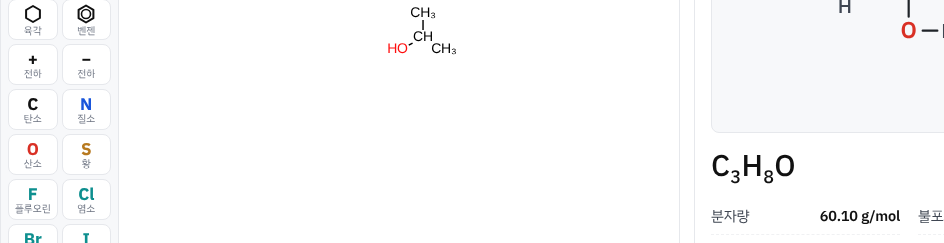
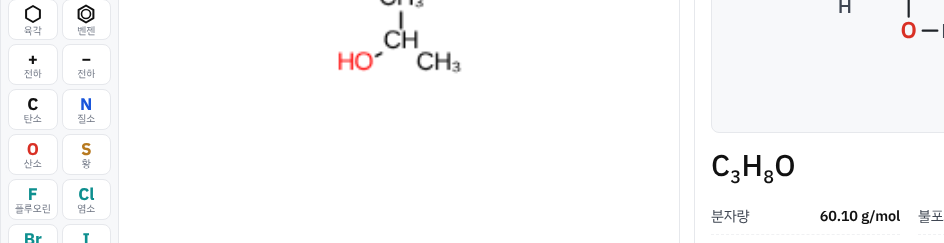
구조식 그리기: 편집기 그림을 1.8배 확대 (CSS zoom + 포인터 좌표 보정)
- 편집기는 결합 하나를 항상 24 px 로 그리고 바꾸는 기능이 없어, 편집기 영역을
  확대 래퍼(CSS zoom 1.8)에 넣고 편집기로 가는 포인터 이벤트 좌표를 1/1.8 로
  되돌린 합성 이벤트로 전달하도록 함 (드래그·클릭·도구 모두 동작 확인)
- 그리기 캔버스가 도구 모음 오른쪽 영역을 정확히 덮도록 래퍼 크기를 측정하며 보정,
  창 크기가 바뀌면 다시 보정
- 좌표 배율을 억지로 바꾸던 이전 방식 제거

Claude-Session: https://claude.ai/code/session_01YFfKQJw1u1SaPAgNkoRP8G

Changed region(s): [[0.3379, 0.0, 0.4915, 0.3169]]

diff --git a/labs/chemistry/organic-structure.html b/labs/chemistry/organic-structure.html
@@ -369,19 +369,10 @@
         /* =====================================================================
          *  화면 갱신
          * ===================================================================== */
-        const EDIT_AVBL = 60;                                 // 편집기 안 결합 길이(px). 라이브러리 기본값 24 는 너무 작아 매번 맞춰 줌
-        function keepScale(mol) {
-            if (!mol.getAllBonds()) return false;
-            const avbl = mol.getAverageBondLength(); if (!(avbl > 0) || Math.abs(avbl - EDIT_AVBL) < 1.5) return false;
-            const n = mol.getAllAtoms(), f = EDIT_AVBL / avbl; let cx = 0, cy = 0;
-            for (let a = 0; a < n; a++) { cx += mol.getAtomX(a); cy += mol.getAtomY(a); } cx /= n; cy /= n;
-            for (let a = 0; a < n; a++) { mol.setAtomX(a, cx + (mol.getAtomX(a) - cx) * f); mol.setAtomY(a, cy + (mol.getAtomY(a) - cy) * f); }
-            return true;
-        }
         function update() {
             if (relabelling || !ed) return;
             const mol = ed.getMolecule();
-            if (keepScale(mol)) { relabelling = true; ed.moleculeChanged(); relabelling = false; }
+
             if ($('showC').checked) {
                 mol.ensureHelperArrays(OCL.Molecule.cHelperNeighbours); let changed = false;
                 for (let a = 0; a < mol.getAllAtoms(); a++) if (mol.getAtomicNo(a) === 6) { const h = mol.getImplicitHydrogens(a); const lab = h ? 'CH' + (h > 1 ? SUB[h] : '') : 'C'; if (mol.getAtomCustomLabel(a) !== lab) { mol.setAtomCustomLabel(a, lab); changed = true; } }
@@ -477,13 +468,62 @@
             toolsEl.addEventListener('mouseleave', () => tip.style.display = 'none');
         }
         function hideNativeToolbar() {                      // 편집기 안의 작은 도구 모음 캔버스를 보이지 않게 (이벤트는 그대로 받음)
-            const root = [...host.children].find(c => c.shadowRoot); const tb = root && root.shadowRoot.querySelector('canvas');
+            const root = [...edWrap.children].find(c => c.shadowRoot); const tb = root && root.shadowRoot.querySelector('canvas');
             if (tb) tb.style.visibility = 'hidden';
         }
+        /* 편집기는 결합 하나를 항상 24 px 로 그리므로(확대 기능 없음) 편집기 영역을 CSS zoom 으로 ZOOM 배 키웁니다.
+         * 편집기가 포인터 좌표를 화면 픽셀 그대로 읽기 때문에, 편집기로 가는 포인터 이벤트는 좌표를 1/ZOOM 로 되돌린
+         * 합성 이벤트로 바꿔 전달합니다. (도구 모음 버튼이 보내는 합성 이벤트는 __raw 표시로 그대로 통과) */
+        const ZOOM = 1.8;
+        let edRoot = null, edWrap = null, dragging = false;
+        function makeWrap() {                                // 편집기를 담을 확대 래퍼 (호스트의 도구 모음 영역 오른쪽을 채움)
+            edWrap = document.createElement('div'); edWrap.className = 'oc-wrap';
+            const padL = parseFloat(getComputedStyle(host).paddingLeft), w = host.clientWidth - padL, h = host.clientHeight;
+            Object.assign(edWrap.style, { position: 'absolute', top: '0', left: padL + 'px', zoom: ZOOM, width: (w / ZOOM + 46) + 'px', height: (h / ZOOM) + 'px', marginLeft: '-46px' });
+            host.appendChild(edWrap); return edWrap;
+        }
+        function drawCanvas() { return edRoot && edRoot.shadowRoot.querySelectorAll('canvas')[1]; }
+        function calibrate() {                               // 그리기 캔버스가 호스트 안쪽(도구 모음 오른쪽)을 정확히 덮도록 래퍼 크기·위치를 측정하며 맞춤
+            edRoot = [...edWrap.children].find(c => c.shadowRoot); if (!edRoot) return;
+            const padL = parseFloat(getComputedStyle(host).paddingLeft);
+            let tries = 0;
+            const step = () => {
+                const dc = drawCanvas(); if (!dc) return;
+                const r = dc.getBoundingClientRect(), hb = host.getBoundingClientRect(), bw = host.clientLeft;
+                const dl = r.left - (hb.left + bw + padL), dw = (hb.right - bw) - r.right, dt = r.top - (hb.top + bw), dh = (hb.bottom - bw) - r.bottom;
+                if (window.__calLog) console.log('cal', tries, JSON.stringify({ dl, dw, dt, dh, w: edWrap.style.width, ml: edWrap.style.marginLeft, cw: dc.width }));
+                if (Math.abs(dl) < 1 && Math.abs(dw) < 1 && Math.abs(dt) < 1 && Math.abs(dh) < 1) return;
+                if (++tries > 6) return;
+                edWrap.style.marginLeft = (parseFloat(edWrap.style.marginLeft || 0) - dl / ZOOM) + 'px';   // 래퍼의 margin 도 zoom 배로 보이므로
+                edWrap.style.marginTop = (parseFloat(edWrap.style.marginTop || 0) - dt / ZOOM) + 'px';
+                edWrap.style.width = (parseFloat(edWrap.style.width) + (dw + dl) / ZOOM) + 'px';     // 왼쪽을 dl 만큼 옮겼으니 폭은 dw + dl 만큼
+                edWrap.style.height = (parseFloat(edWrap.style.height) + (dh + dt) / ZOOM) + 'px';
+                const ev = new Event('resize'); ev.__fromCal = true; window.dispatchEvent(ev);
+                setTimeout(step, 150);                       // 편집기가 크기를 반영한 뒤 다시 측정
+            };
+            setTimeout(step, 50);
+        }
+        const POINTER_TYPES = ['pointerdown', 'pointermove', 'pointerup', 'pointercancel', 'pointerover', 'pointerout', 'pointerenter', 'pointerleave'];
+        POINTER_TYPES.forEach(type => window.addEventListener(type, e => {
+            if (!edRoot || e.__raw || !e.isTrusted) return;
+            const path = e.composedPath(), inside = path.includes(edRoot);
+            if (type === 'pointerdown') dragging = inside;
+            if (!inside && !dragging) return;
+            if (type === 'pointerup' || type === 'pointercancel') dragging = false;
+            e.stopImmediatePropagation(); e.preventDefault();
+            const target = (inside && path[0] instanceof HTMLCanvasElement) ? path[0] : drawCanvas();
+            const r = target.getBoundingClientRect();                     // 편집기는 (clientX − 캔버스 rect.left) 를 그대로 캔버스 좌표로 씀
+            const init = { bubbles: true, cancelable: true, composed: true, clientX: r.left + (e.clientX - r.left) / ZOOM, clientY: r.top + (e.clientY - r.top) / ZOOM, screenX: e.screenX, screenY: e.screenY,
+                pointerId: e.pointerId, pointerType: e.pointerType, isPrimary: e.isPrimary, button: e.button, buttons: e.buttons, ctrlKey: e.ctrlKey, shiftKey: e.shiftKey, altKey: e.altKey, metaKey: e.metaKey, pressure: e.pressure, width: e.width, height: e.height };
+            const ev = new PointerEvent(type, init); ev.__raw = true;
+            target.dispatchEvent(ev);
+        }, true));
+        let calT = null;
+        window.addEventListener('resize', e => { if (!edWrap || e.__fromCal) return; clearTimeout(calT); calT = setTimeout(calibrate, 120); });
         function pickTool(row, col) {
-            const root = [...host.children].find(c => c.shadowRoot); const tb = root && root.shadowRoot.querySelector('canvas'); if (!tb) return;
+            const tb = edRoot && edRoot.shadowRoot.querySelector('canvas'); if (!tb) return;
             const r = tb.getBoundingClientRect(), x = r.left + 13 + col * 22, y = r.top + 13 + row * 21;
-            ['pointerdown', 'pointerup'].forEach(type => tb.dispatchEvent(new PointerEvent(type, { bubbles: true, cancelable: true, composed: true, clientX: x, clientY: y, pointerId: 1, pointerType: 'mouse', isPrimary: true, button: 0, buttons: type === 'pointerdown' ? 1 : 0 })));
+            ['pointerdown', 'pointerup'].forEach(type => { const ev = new PointerEvent(type, { bubbles: true, cancelable: true, composed: true, clientX: x, clientY: y, pointerId: 1, pointerType: 'mouse', isPrimary: true, button: 0, buttons: type === 'pointerdown' ? 1 : 0 }); ev.__raw = true; tb.dispatchEvent(ev); });
         }
 
         /* =====================================================================
@@ -553,9 +593,9 @@
         try {
             await OCL.Resources.registerFromUrl('../../assets/vendor/openchemlib/resources.json');
             host.querySelector('.ocl-loading').remove();
-            ed = new OCL.CanvasEditor(host);
+            ed = new OCL.CanvasEditor(makeWrap());
             ed.setOnChangeListener(update);
-            hideNativeToolbar(); buildTools(); toolsEl.querySelector('[data-id="bond"]').classList.add('on');
+            hideNativeToolbar(); calibrate(); buildTools(); toolsEl.querySelector('[data-id="bond"]').classList.add('on');
             buildTasks(); update();
         } catch (e) {
             host.querySelector('.ocl-loading').textContent = '편집기를 불러오지 못했습니다. 페이지를 새로고침해 주세요.';
